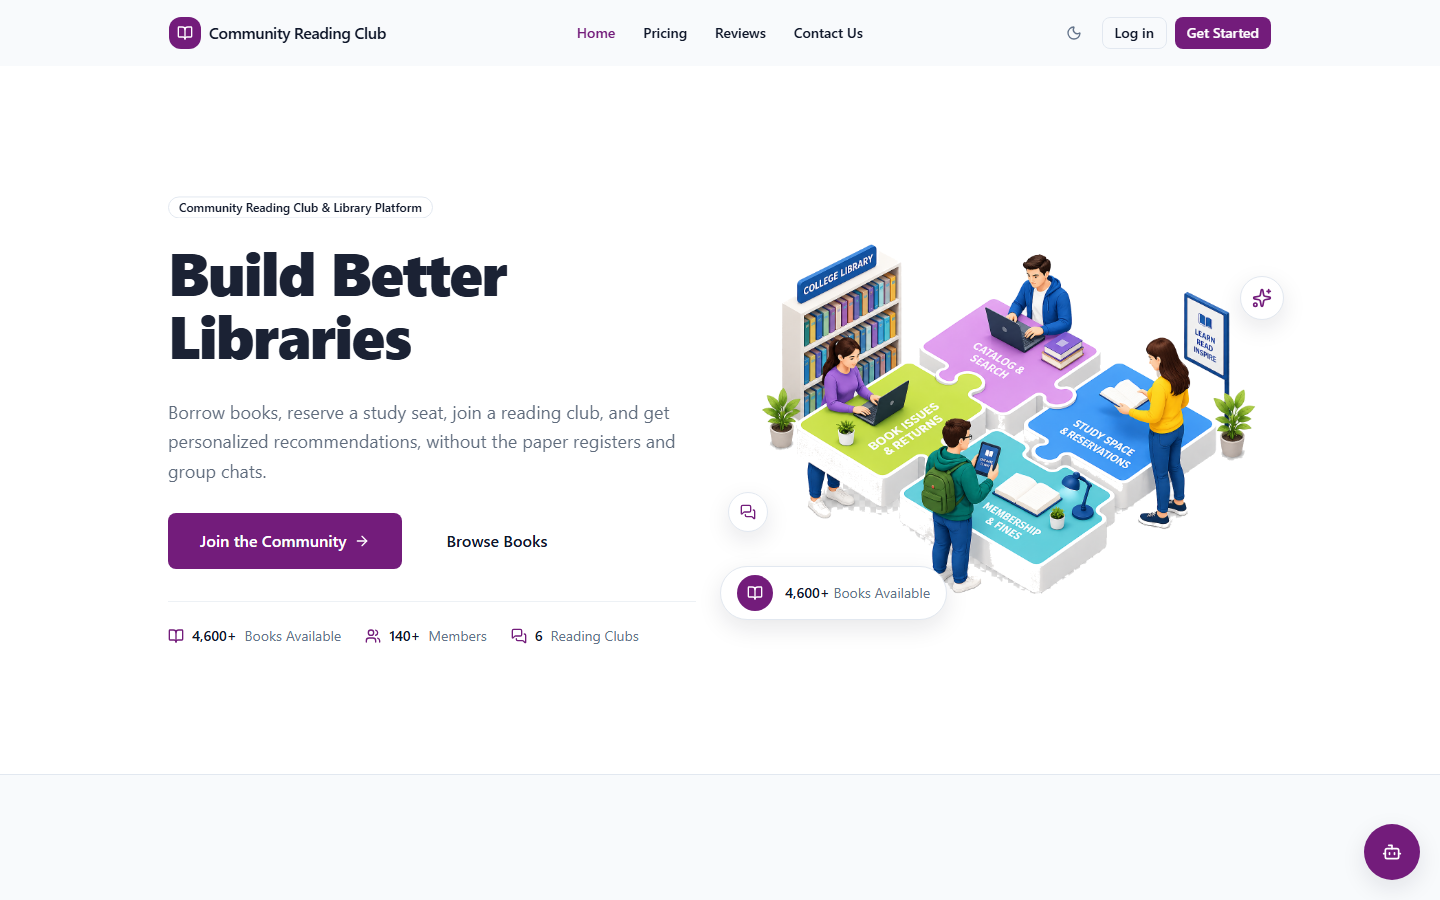
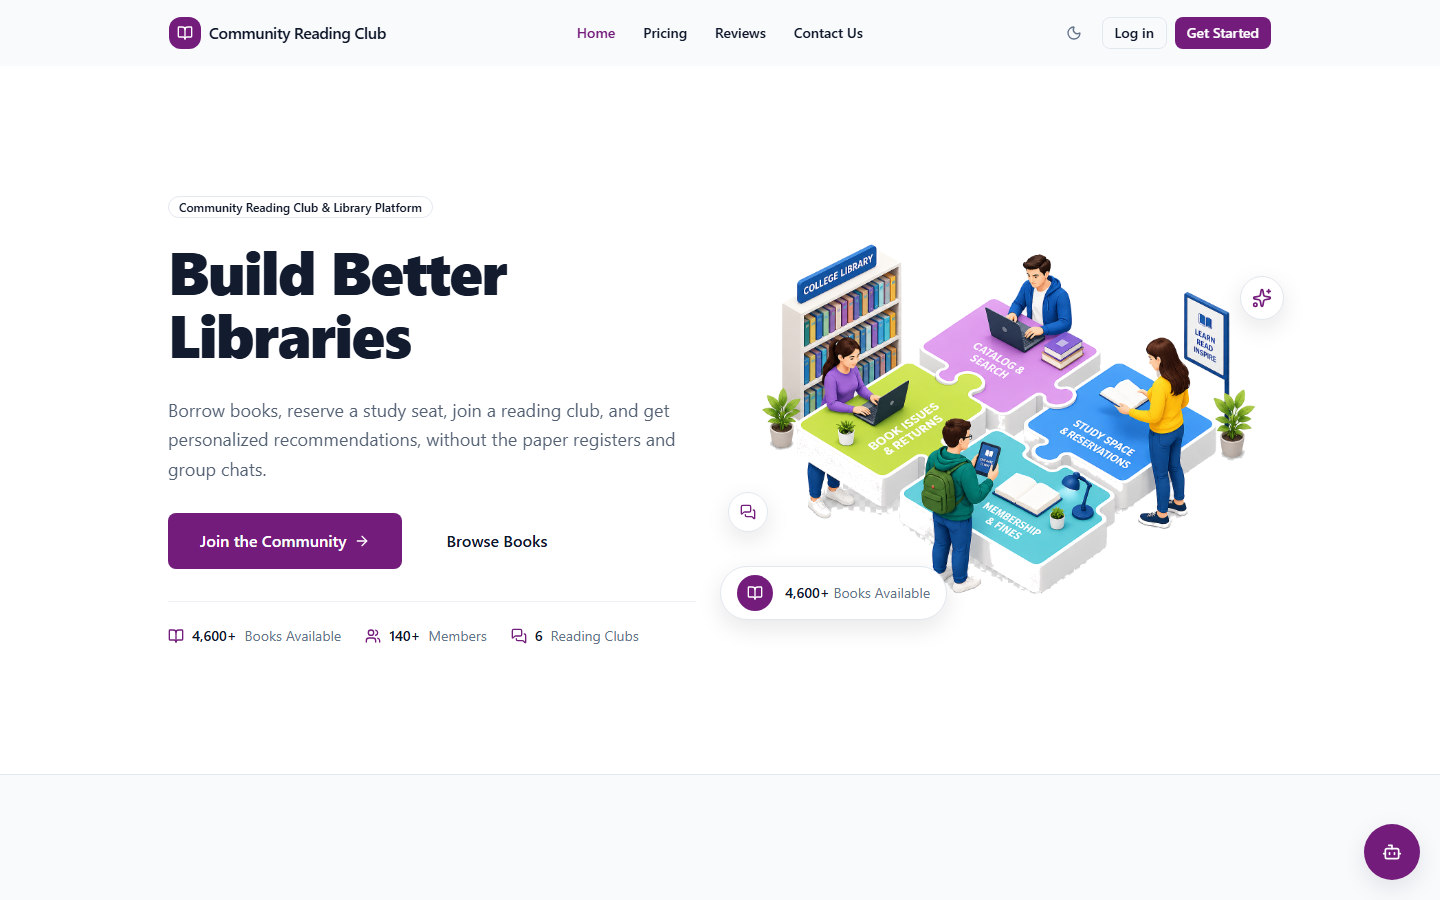
leaderbord fix

diff --git a/frontend/src/features/leaderboard/pages/LeaderboardPage.tsx b/frontend/src/features/leaderboard/pages/LeaderboardPage.tsx
@@ -14,6 +14,7 @@ import {
 } from '@/components/ui';
 import { cn } from '@/lib/cn';
 import { leaderboard } from '@/mocks/leaderboard';
+import { useAuth } from '@/providers/AuthProvider';
 
 const medalColor: Record<number, string> = {
   1: 'text-warning',
@@ -23,6 +24,11 @@ const medalColor: Record<number, string> = {
 
 export function LeaderboardPage() {
   const { t } = useTranslation();
+  const { role } = useAuth();
+  // Only members are leaderboard participants — staff and guardians are
+  // viewing someone else's stats, never their own, however the mock data
+  // happens to be flagged.
+  const isParticipant = role === 'member';
 
   return (
     <div className="flex flex-col gap-6">
@@ -42,30 +48,33 @@ export function LeaderboardPage() {
           </TableRow>
         </TableHeader>
         <TableBody>
-          {leaderboard.map((entry) => (
-            <TableRow key={entry.rank} className={cn(entry.isCurrentUser && 'bg-primary/5')}>
-              <TableCell>
-                <span className="flex items-center gap-1.5 font-semibold text-foreground">
-                  {entry.rank <= 3 && <Award className={cn('size-4', medalColor[entry.rank])} />}
-                  {entry.rank}
-                </span>
-              </TableCell>
-              <TableCell>
-                <span className="flex items-center gap-2">
-                  <Avatar name={entry.name} size="sm" />
-                  {entry.name}
-                  {entry.isCurrentUser && (
-                    <Badge variant="outline" className="ml-1">
-                      {t('common.you')}
-                    </Badge>
-                  )}
-                </span>
-              </TableCell>
-              <TableCell>{entry.points.toLocaleString()}</TableCell>
-              <TableCell>{entry.badges}</TableCell>
-              <TableCell>{t('leaderboard.hoursSuffix', { hours: entry.hoursRead })}</TableCell>
-            </TableRow>
-          ))}
+          {leaderboard.map((entry) => {
+            const isYou = isParticipant && entry.isCurrentUser;
+            return (
+              <TableRow key={entry.rank} className={cn(isYou && 'bg-primary/5')}>
+                <TableCell>
+                  <span className="flex items-center gap-1.5 font-semibold text-foreground">
+                    {entry.rank <= 3 && <Award className={cn('size-4', medalColor[entry.rank])} />}
+                    {entry.rank}
+                  </span>
+                </TableCell>
+                <TableCell>
+                  <span className="flex items-center gap-2">
+                    <Avatar name={entry.name} size="sm" />
+                    {entry.name}
+                    {isYou && (
+                      <Badge variant="outline" className="ml-1">
+                        {t('common.you')}
+                      </Badge>
+                    )}
+                  </span>
+                </TableCell>
+                <TableCell>{entry.points.toLocaleString()}</TableCell>
+                <TableCell>{entry.badges}</TableCell>
+                <TableCell>{t('leaderboard.hoursSuffix', { hours: entry.hoursRead })}</TableCell>
+              </TableRow>
+            );
+          })}
         </TableBody>
       </Table>
     </div>

diff --git a/frontend/src/features/landing/components/ContainerScroll.tsx b/frontend/src/features/landing/components/ContainerScroll.tsx
@@ -11,6 +11,7 @@ export const ContainerScroll = ({
   const containerRef = useRef<HTMLDivElement>(null);
   const { scrollYProgress } = useScroll({
     target: containerRef,
+    offset: ['start end', 'center center'],
   });
   const [isMobile, setIsMobile] = React.useState(false);
 
@@ -35,11 +36,11 @@ export const ContainerScroll = ({
 
   return (
     <div
-      className="relative flex h-[60rem] items-center justify-center p-2 md:h-[80rem] md:p-20"
+      className="relative flex items-center justify-center px-2 py-16 md:px-20 md:py-24"
       ref={containerRef}
     >
       <div
-        className="w-full relative py-10 md:py-40"
+        className="w-full relative"
         style={{
           perspective: '1000px',
         }}
@@ -84,9 +85,9 @@ export const Card = ({
         boxShadow:
           '0 0 #0000004d, 0 9px 20px #0000004a, 0 37px 37px #00000042, 0 84px 50px #00000026, 0 149px 60px #0000000a, 0 233px 65px #00000003',
       }}
-      className="mx-auto -mt-12 h-[30rem] w-full max-w-5xl rounded-[30px] border-4 border-[#6C6C6C] bg-[#222222] p-2 shadow-2xl md:h-[40rem] md:p-6"
+      className="mx-auto -mt-12 w-full max-w-7xl rounded-[30px] border-4 border-[#6C6C6C] bg-[#222222] p-2 shadow-2xl md:p-6"
     >
-      <div className="h-full w-full overflow-hidden rounded-2xl bg-gray-100 dark:bg-zinc-900 md:rounded-2xl md:p-4">
+      <div className="w-full overflow-hidden rounded-2xl bg-gray-100 dark:bg-zinc-900 md:rounded-2xl md:p-4">
         {children}
       </div>
     </motion.div>

diff --git a/frontend/src/features/landing/components/PlatformPreview.tsx b/frontend/src/features/landing/components/PlatformPreview.tsx
@@ -9,7 +9,7 @@ export function PlatformPreview() {
   const { t } = useTranslation();
 
   return (
-    <Section ariaLabelledBy="platform-preview-heading">
+    <Section ariaLabelledBy="platform-preview-heading" containerClassName="max-w-7xl">
       <ContainerScroll
         titleComponent={
           <h2 id="platform-preview-heading" className="text-3xl font-semibold text-foreground md:text-4xl">
@@ -20,7 +20,7 @@ export function PlatformPreview() {
         <img
           src={platformPreview}
           alt={t('landing.preview.imgAlt')}
-          className="mx-auto h-full w-full rounded-2xl object-cover object-top-left"
+          className="mx-auto aspect-1635/962 w-full rounded-2xl object-cover"
           draggable={false}
         />
       </ContainerScroll>

diff --git a/frontend/src/components/common/Section.tsx b/frontend/src/components/common/Section.tsx
@@ -14,7 +14,7 @@ const toneClasses: Record<SectionTone, string> = {
 };
 
 // The dominant vertical rhythm shared by ~13 marketing sections — override via `spacing`.
-const DEFAULT_SPACING = 'py-16 md:py-20 lg:py-30';
+const DEFAULT_SPACING = 'py-10 md:py-14 lg:py-16';
 
 export interface SectionProps {
   children: ReactNode;

diff --git a/frontend/README.md b/frontend/README.md
@@ -6,7 +6,7 @@ progress, subscribing/paying for a plan, and role-specific dashboards for Member
 Guardians, Librarians, Managers, IT Heads, and Admins.
 
 For the full product context (problem statement, architecture decisions, what's
-mocked vs. real), see [`../PROJECT_SPECIFICATION.md`](../PROJECT_SPECIFICATION.md).
+mocked vs. real), see [`../docs/FINAL_SPEC.md`](../docs/FINAL_SPEC.md).
 This file only covers running and developing the frontend itself.
 
 ## Stack
@@ -17,7 +17,7 @@ This file only covers running and developing the frontend itself.
 - TanStack Query (wired up, not yet used for real fetching — see "Current Status")
 - React Hook Form + Zod (forms/validation)
 - Framer Motion (animations, centralized variants in `lib/motion.ts`)
-- react-i18next (7 languages — see "Internationalization")
+- react-i18next (3 languages — see "Internationalization")
 - Sonner (toasts)
 - Vitest + Testing Library (unit tests), Playwright (e2e, configured at the repo root)
 
@@ -97,7 +97,7 @@ src/
 │   ├── leaderboard/ | notifications/ | profile/ | reading-progress/
 ├── mocks/                    # Mock data per feature, shaped like the future real API
 ├── pages/                    # Login, Register, NotFound, PlaceholderPage
-├── i18n/                     # i18next config + locales/*.json (en, hi, mr, pa, ta, kn, ur)
+├── i18n/                     # i18next config + locales/*.json (en, hi, pa)
 ├── constants/                # ROUTES, navigation items
 ├── lib/                      # cn(), motion.ts (shared Framer Motion variants),
 │                                authSchema.ts (Zod), comingSoonToast, format.ts, ...
@@ -127,10 +127,11 @@ guards in `app/router/guards.tsx`:
 
 ## Internationalization
 
-`src/i18n/config.ts` loads 7 locale bundles (`en`, `hi`, `mr`, `pa`, `ta`, `kn`, `ur`)
-via `react-i18next`; `LanguageProvider` persists the chosen language and syncs
-`<html lang/dir>` (Urdu renders right-to-left). All locale files are kept in exact key
-parity — when adding a new translatable string, add it to all 7 files, not just `en.json`.
+`src/i18n/config.ts` loads 3 locale bundles (`en`, `hi`, `pa`) via `react-i18next`;
+`LanguageProvider` persists the chosen language and syncs `<html lang/dir>` (no
+current locale is RTL, but the mechanism supports one). All locale files are kept in
+exact key parity — when adding a new translatable string, add it to all 3 files, not
+just `en.json`.
 
 ## Environment Variables
 
